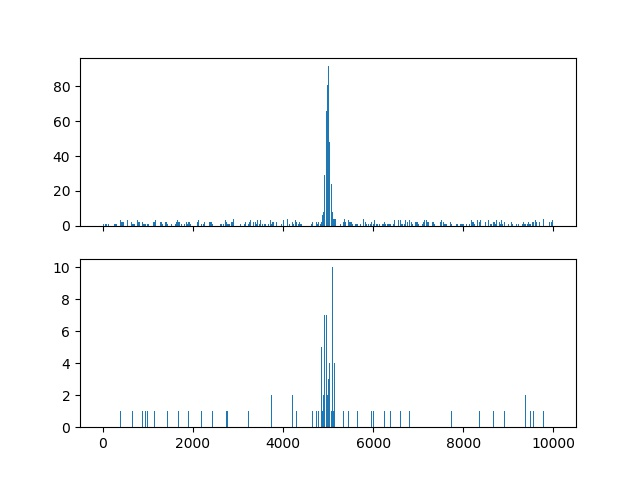
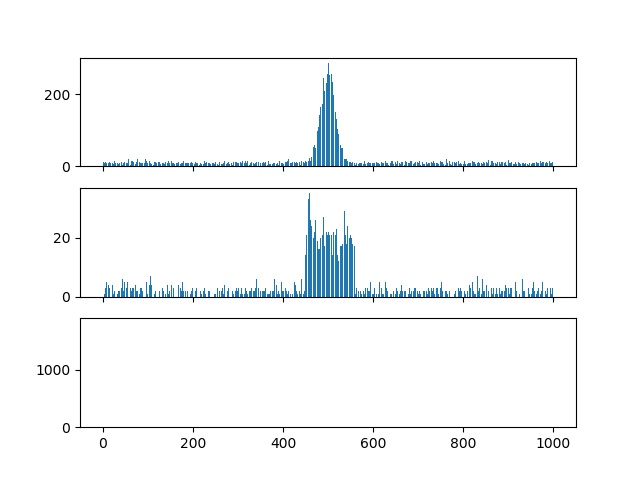
Possible uniform hash

diff --git a/Assignment/B/a_main.cpp b/Assignment/B/a_main.cpp
@@ -16,9 +16,9 @@ int main(int argc, char *argv[])
     ("help,h", "help")
     ("epsilon,e", boost::program_options::value<double>(), "epsilon value used in l0 sampling, must be in [0, 1], defaults to 1e-32")
     ("probability,p", boost::program_options::value<double>(), "success probability for binomial distribution, must be in [0, 1], defaults to 0.5")
-    ("range,r", boost::program_options::value<uint64_t>(), "data range, must be positive, defaults to the stream size")
+    ("range,r", boost::program_options::value<uint64_t>(), "data range, must be positive, defaults to the stream size / 10")
     ("size,s", boost::program_options::value<uint64_t>(), "stream size, must be positive, defaults to 10000")
-    ("trial,t", boost::program_options::value<uint64_t>(), "number of trials, must be positive, defaults to range / 10");
+    ("trial,t", boost::program_options::value<uint64_t>(), "number of trials, must be positive, defaults to 2 * range");
 
     boost::program_options::variables_map options;
     boost::program_options::store(boost::program_options::parse_command_line(argc, argv, cli), options);
@@ -56,58 +56,76 @@ int main(int argc, char *argv[])
     if (options.count("size"))
         s = options["size"].as<uint64_t>();
 
-    uint64_t r = s;
+    uint64_t r = s / 10;
     if (options.count("range"))
         r = options["range"].as<uint64_t>();
 
-    uint64_t t = r / 10;
+    uint64_t t = 2 * r;
     if (options.count("trial"))
         t = options["trial"].as<uint64_t>();
 
     using ItemType = uint64_t;
 
     // used to record distribution
-    std::vector<ItemType> vs(r + 1), vl(r + 1);
+    std::vector<ItemType> vs(r + 1), vlk(r + 1), vls(r + 1);
     std::mt19937_64 g { std::random_device()() };
-    uint8_t const k = log(floor(1 / e));
+    uint8_t const k = log2(floor(1 / e));
     hash::k_universal_family<ItemType> kuf(k);
+    hash::simple_uniform_family<ItemType> suf;
 
     std::uniform_int_distribution<ItemType> ud(0, r);
-    std::vector<sampler::l0_insertion<ItemType>> ul0s;
-    ul0s.reserve(t);
+    std::vector<sampler::l0_insertion<hash::k_universal<ItemType>>> ul0ks;
+    std::vector<sampler::l0_insertion<hash::simple_uniform<ItemType>>> ul0ss;
+    ul0ks.reserve(t);
     for (uint64_t i = 0; i < t; ++i)
-        ul0s.emplace_back(r, kuf());
+        ul0ks.emplace_back(r, kuf());
+    ul0ss.reserve(t);
+    for (uint64_t i = 0; i < t; ++i)
+        ul0ss.emplace_back(r, suf());
     for (uint64_t i = 0; i < s; ++i)
     {
         uint64_t v = ud(g);
         ++vs[v];
-        for (uint64_t j = 0; j < t; ++j)
-            ul0s[j] += v;
+        for (auto & ul0k : ul0ks)
+            ul0k += v;
+        for (auto & ul0s : ul0ss)
+            ul0s += v;
     }
-    for (auto const & ul0 : ul0s)
-        ++vl[ul0];
+    for (auto const & ul0k : ul0ks)
+        ++vlk[ul0k];
+    for (auto const & ul0s : ul0ss)
+        ++vls[ul0s];
     for (uint64_t i = 0; i <= r; ++i)
-        std::cout << i << " " << vs[i] << " " << vl[i] << std::endl;
+        std::cout << i << " " << vs[i] << " " << vlk[i] << " " << vls[i] << std::endl;
 
     vs.clear();
-    vl.clear();
+    vlk.clear();
+    vls.clear();
 
     std::binomial_distribution<ItemType> ub(r, p);
-    std::vector<sampler::l0_insertion<ItemType>> bl0s;
-    bl0s.reserve(t);
+    std::vector<sampler::l0_insertion<hash::k_universal<ItemType>>> bl0ks;
+    std::vector<sampler::l0_insertion<hash::simple_uniform<ItemType>>> bl0ss;
+    bl0ks.reserve(t);
     for (uint64_t i = 0; i < t; ++i)
-        bl0s.emplace_back(r, kuf());
+        bl0ks.emplace_back(r, kuf());
+    bl0ss.reserve(t);
+    for (uint64_t i = 0; i < t; ++i)
+        bl0ss.emplace_back(r, suf());
     for (uint64_t i = 0; i < s; ++i)
     {
         uint64_t v = ub(g);
         ++vs[v];
-        for (uint64_t j = 0; j < t; ++j)
-            bl0s[j] += v;
+        for (auto & bl0k : bl0ks)
+            bl0k += v;
+        for (auto & bl0s : bl0ss)
+            bl0s += v;
     }
-    for (auto const & bl0 : bl0s)
-        ++vl[bl0];
+    for (auto const & bl0k : bl0ks)
+        ++vlk[bl0k];
+    for (auto const & bl0s : bl0ss)
+        ++vls[bl0s];
     for (uint64_t i = 0; i <= r; ++i)
-        std::cout << i << " " << vs[i] << " " << vl[i] << std::endl;
+        std::cout << i << " " << vs[i] << " " << vlk[i] << " " << vls[i] << std::endl;
 
     return 0;
 }

diff --git a/Assignment/B/hash.hpp b/Assignment/B/hash.hpp
@@ -14,6 +14,8 @@ namespace hash
 template<typename T>
 struct k_universal final
 {
+    using ItemType = T;
+
     k_universal(k_universal const &) = default;
     k_universal(k_universal &&) = default;
 
@@ -35,18 +37,20 @@ private:
     static constexpr std::hash<T> basic {};
     static constexpr prime::mersenne const & mp31 = prime::mersennes::mersenne31;
 
+    std::uint64_t a;
+    std::vector<uint64_t> as;
+
     k_universal(uint64_t a, std::vector<uint64_t> && as) noexcept : as(as), a(a) {}
 
     k_universal & operator=(k_universal const &) = delete;
     k_universal & operator=(k_universal &&) = delete;
-
-    std::uint64_t a;
-    std::vector<uint64_t> as;
 };
 
 template<typename T>
 struct k_universal_family final
 {
+    using ItemType = T;
+
     k_universal_family(uint8_t k) : k_universal_family(k, prime::mersennes::mersenne31.p - 1) {}
 
     k_universal<T> operator()()
@@ -60,6 +64,12 @@ private:
     friend struct k_universal_tester;
 
     static std::random_device rd;
+
+    uint8_t k;
+    std::uniform_int_distribution<uint64_t> ad;
+    std::vector<std::uniform_int_distribution<uint64_t>> asd;
+    std::mt19937_64 ag;
+    std::vector<std::mt19937_64> asg;
 
     k_universal_family(uint8_t k, uint32_t max) : ag(rd()), ad(1, max), k(k)
     {
@@ -77,16 +87,58 @@ private:
 
     k_universal_family & operator=(k_universal_family const &) = delete;
     k_universal_family & operator=(k_universal_family &&) = delete;
-
-    uint8_t k;
-    std::uniform_int_distribution<uint64_t> ad;
-    std::vector<std::uniform_int_distribution<uint64_t>> asd;
-    std::mt19937_64 ag;
-    std::vector<std::mt19937_64> asg;
 };
 
 template<typename T>
 std::random_device k_universal_family<T>::rd {};
+
+template<typename T, std::enable_if_t<std::is_arithmetic_v<T>, bool> = true>
+struct simple_uniform
+{
+    using ItemType = T;
+
+    simple_uniform(simple_uniform const &) = default;
+    simple_uniform(simple_uniform &&) = default;
+
+    inline constexpr uint64_t operator()(T item) const noexcept
+    {
+        return mp31(mp31(basic(item)) + v);
+    }
+private:
+    template<typename>
+    friend struct simple_uniform_family;
+
+    static constexpr std::hash<T> basic {};
+    static constexpr prime::mersenne const & mp31 = prime::mersennes::mersenne31;
+
+    uint64_t v;
+
+    simple_uniform(uint64_t v) : v(v) {}
+
+    simple_uniform & operator=(simple_uniform const &) = delete;
+    simple_uniform & operator=(simple_uniform &&) = delete;
+};
+
+template<typename T>
+struct simple_uniform_family
+{
+    using ItemType = T;
+
+    simple_uniform_family() : ag(rd()), ad(0, prime::mersennes::mersenne31.p - 1) {}
+
+    simple_uniform<T> operator()()
+    {
+        return simple_uniform<T>(ad(ag));
+    }
+private:
+    static std::random_device rd;
+
+    std::uniform_int_distribution<uint64_t> ad;
+    std::mt19937_64 ag;
+};
+
+template<typename T>
+std::random_device simple_uniform_family<T>::rd {};
 
 }
 

diff --git a/Assignment/B/recovery.hpp b/Assignment/B/recovery.hpp
@@ -20,23 +20,35 @@ struct sparse1 final
         w2 += int64_t(index) * update;
         int64_t acc = 1;
         for (uint16_t i = 0; i < index; ++i)
-            acc = acc * q % p;
-        w3 += acc * update % p;
+            acc = mp31(acc * q);
+        w3 += mp31(acc * update);
     }
 
     std::pair<uint16_t, int8_t> operator()()
     {
         if (!w1)
-            return {0, 0};
-        int64_t re = 1;
+        {
+            if (w2 || w3)
+                return { 2, 0 };
+            return { 0, 0 };
+        }
+        if (w2 % w1)
+            return { 2, 0 };
+        int64_t j = w2 / w1;
+        if (j < 0)
     }
 private:
-    static std::mt19937 g { std::random_device()() };
-    static std::uniform_int_distribution<uint32_t> d(1, prime::mersennes::mersenne31.p);
+    static constexpr prime::mersenne const & mp31 = prime::mersennes::mersenne31;
+
+    static std::uniform_int_distribution<uint32_t> d;
+    static std::mt19937 g;
 
     int64_t w1, w2, w3;
     uint32_t const q;
 };
+
+std::uniform_int_distribution<uint32_t> sparse1::d { 1, mp31.p };
+std::mt19937 sparse1::g { std::random_device()() };
 
 }
 

diff --git a/Assignment/B/plot.py b/Assignment/B/plot.py
@@ -7,14 +7,15 @@ import matplotlib.pyplot as plt
 
 
 def split(line):
-    v, record, sample = line.split()
-    return int(v), int(record), int(sample)
+    v, record, universal, uniform = line.split()
+    return int(v), int(record), int(universal), int(uniform)
 
 
-def plot(x, ry, sy, loc, index, name):
-    fig, (ax1, ax2) = plt.subplots(2, 1, sharex=True)
+def plot(x, ry, uy, sy, loc, index, name):
+    fig, (ax1, ax2, ax3) = plt.subplots(3, 1, sharex=True)
     ax1.bar(x, ry)
-    ax2.bar(x, sy)
+    ax2.bar(x, uy)
+    ax3.bar(x, sy)
     fig.savefig(f"{loc}/{index}-{name}.jpg")
 
 
@@ -26,6 +27,7 @@ def main(argv):
         plot(uniform[:, 0].flatten(),
              uniform[:, 1].flatten(),
              uniform[:, 2].flatten(),
+             uniform[:, 3].flatten(),
              argv[2],
              argv[3],
              "Uniform")
@@ -34,6 +36,7 @@ def main(argv):
         plot(binomial[:, 0].flatten(),
              binomial[:, 1].flatten(),
              binomial[:, 2].flatten(),
+             binomial[:, 3].flatten(),
              argv[2],
              argv[3],
              "Binomial")

diff --git a/Assignment/B/sampler.hpp b/Assignment/B/sampler.hpp
@@ -9,10 +9,12 @@
 namespace sampler
 {
 
-template<typename T>
+template<typename H>
 struct l0_insertion final
 {
-    l0_insertion(uint64_t n, hash::k_universal<T> h) : h(h), aref(nullptr), m(n + 1), n(n) {}
+    using T = typename H::ItemType;
+
+    l0_insertion(uint64_t n, H h) : h(h), aref(nullptr), m(n + 1), n(n) {}
 
     l0_insertion(l0_insertion const &) = default;
     l0_insertion(l0_insertion &&) = default;
@@ -37,7 +39,7 @@ private:
     uint64_t const n;
     uint64_t m;
     T a, *aref;
-    hash::k_universal<T> h;
+    H h;
 
     l0_insertion & operator=(l0_insertion const &) = delete;
     l0_insertion & operator=(l0_insertion &&) = delete;

diff --git a/Assignment/B/b_main.cpp b/Assignment/B/b_main.cpp
@@ -1,0 +1,4 @@
+int main()
+{
+    return 0;
+}
